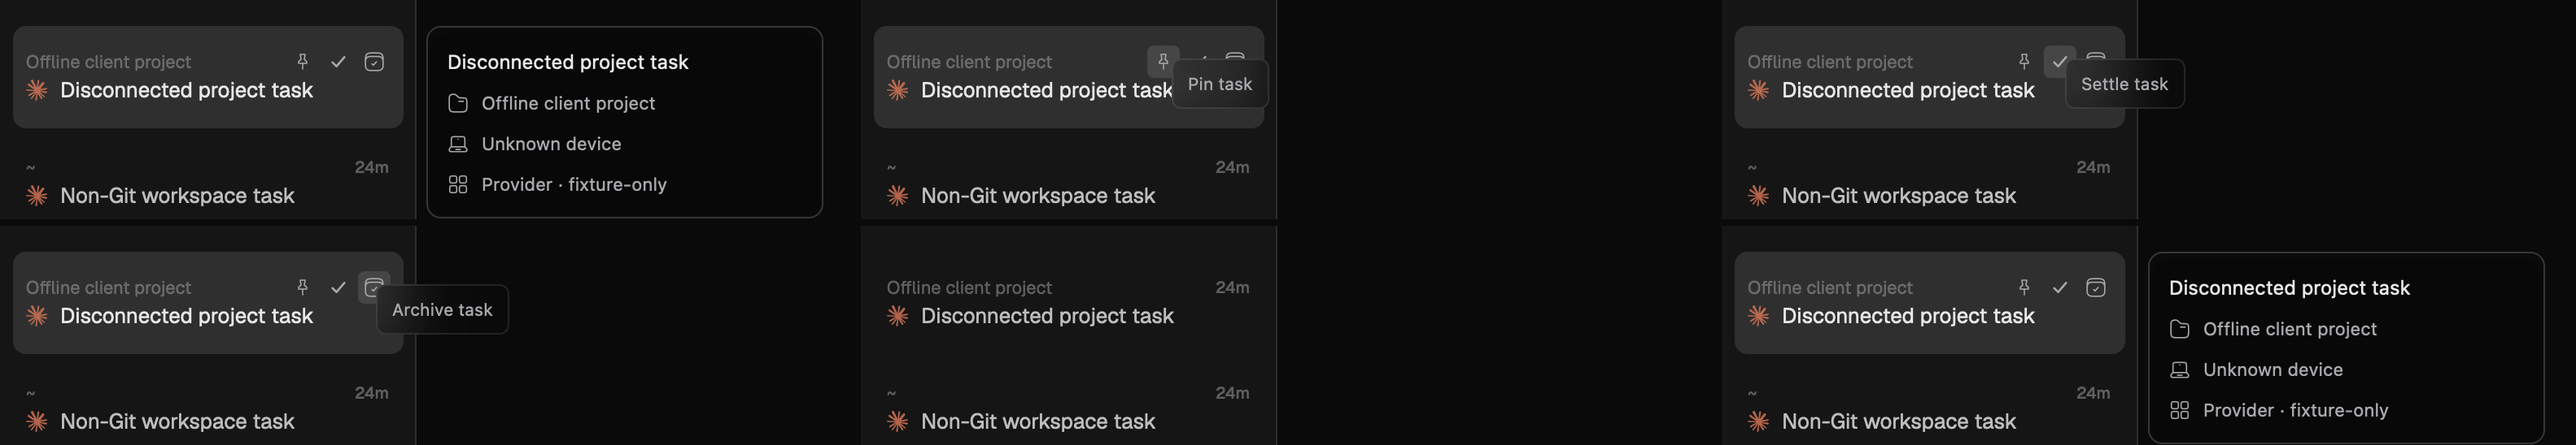
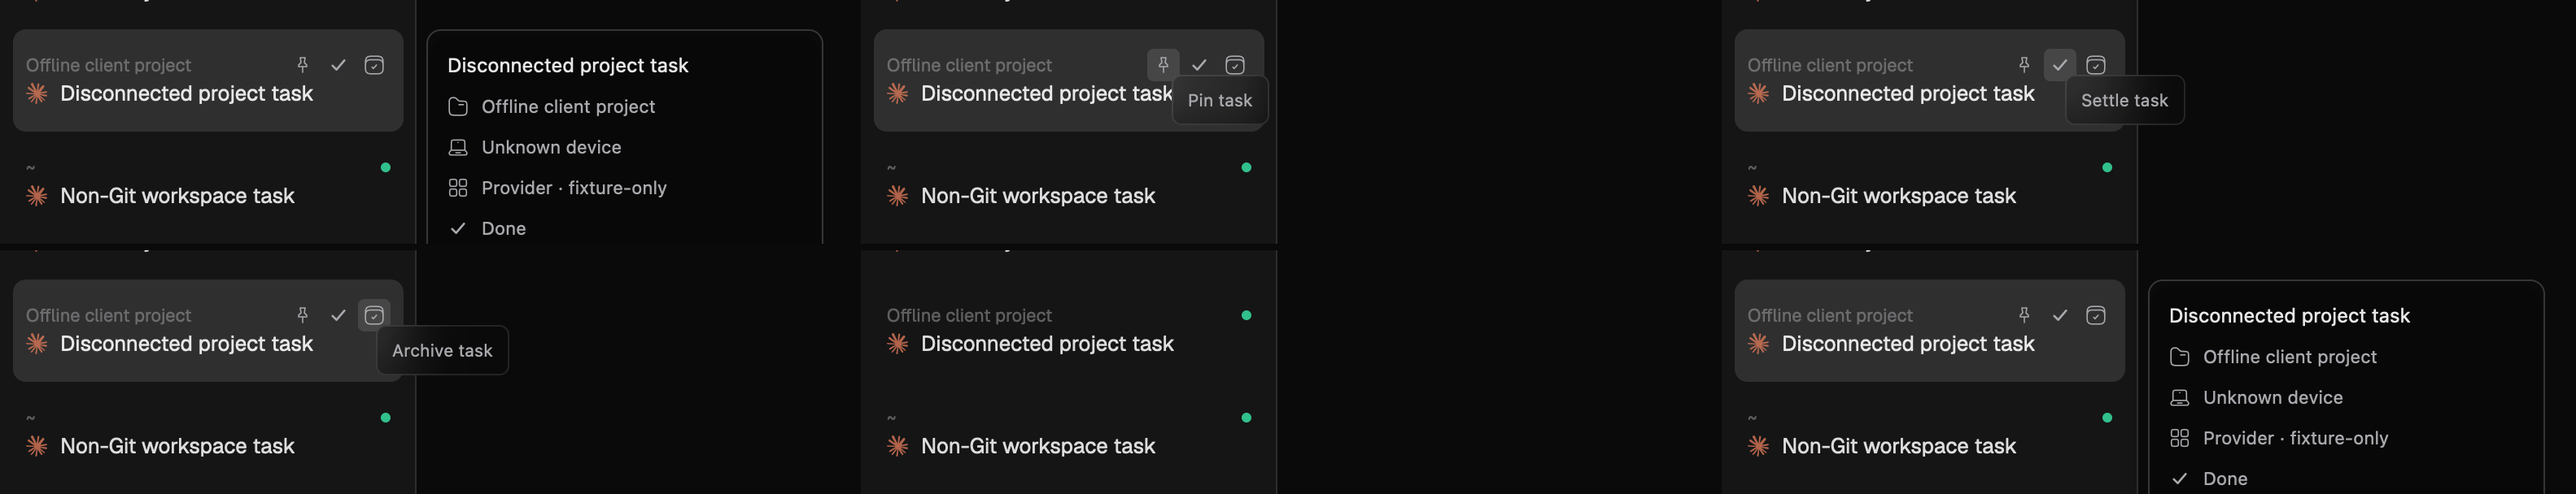
Keep hand cursor continuous across sidebar tasks

diff --git a/crates/ui/examples/task-organization-fixture.rs b/crates/ui/examples/task-organization-fixture.rs
@@ -593,6 +593,20 @@ async fn seed_sidebar_scale(core: &EngineCore, root: &Path) -> anyhow::Result<()
         return Ok(());
     }
     let now = chrono::Utc::now();
+    // These tasks were created within the same millisecond on fast machines,
+    // making their sidebar order depend on the tie-breaker. Keep capture
+    // coordinates stable across native QA runs.
+    for (id, seconds_ago) in [(TASK_REMOTE, 10), (TASK_NON_GIT, 20), (TASK_PERSONAL, 30)] {
+        let at = now - chrono::Duration::seconds(seconds_ago);
+        anyhow::ensure!(
+            core.workspace.set_chat_activity(
+                id,
+                Some(at.timestamp_millis()),
+                Some(at.timestamp_millis())
+            )?,
+            "sidebar fixture task activity update did not apply"
+        );
+    }
     let mut ids = Vec::new();
     for index in 0..=60u16 {
         let id = format!("d349{index:04x}-64d7-4aeb-b686-a751fb570467");
@@ -1323,6 +1337,12 @@ fn main() -> anyhow::Result<()> {
                         })?;
                         cx.background_executor().timer(Duration::from_millis(3200)).await;
                         capture_hover_frame(window, cx, &hover_capture_output, "hover-3850ms.png")?;
+                        let long_hover_cursor =
+                            window.update(cx, |_, window, _| window.debug_cursor_style())?;
+                        anyhow::ensure!(
+                            long_hover_cursor == gpui::CursorStyle::PointingHand,
+                            "cursor changed after stationary tooltip: {long_hover_cursor:?}"
+                        );
                         window.update(cx, |_, window, cx| {
                             window.dispatch_event(
                                 gpui::PlatformInput::MouseMove(gpui::MouseMoveEvent {
@@ -1397,6 +1417,80 @@ fn main() -> anyhow::Result<()> {
                             cx.background_executor().timer(Duration::from_millis(450)).await;
                             capture_hover_frame(window, cx, &hover_capture_output, name)?;
                         }
+                        let (pinned_failures, vertical_failures, horizontal_failures) =
+                            window.update(cx, |_, window, cx| {
+                                let mut pinned_failures = Vec::new();
+                                for y in 130..=245 {
+                                    window.dispatch_event(
+                                        gpui::PlatformInput::MouseMove(gpui::MouseMoveEvent {
+                                            position: gpui::point(px(100.0), px(y as f32)),
+                                            ..Default::default()
+                                        }),
+                                        cx,
+                                    );
+                                    window.draw(cx).clear();
+                                    let cursor = window.debug_cursor_style();
+                                    if cursor != gpui::CursorStyle::PointingHand {
+                                        pinned_failures.push(serde_json::json!({
+                                            "y": y,
+                                            "cursor": format!("{cursor:?}")
+                                        }));
+                                    }
+                                }
+                                let mut vertical_failures = Vec::new();
+                                for y in 280..=520 {
+                                    window.dispatch_event(
+                                        gpui::PlatformInput::MouseMove(gpui::MouseMoveEvent {
+                                            position: gpui::point(px(100.0), px(y as f32)),
+                                            ..Default::default()
+                                        }),
+                                        cx,
+                                    );
+                                    window.draw(cx).clear();
+                                    let cursor = window.debug_cursor_style();
+                                    if cursor != gpui::CursorStyle::PointingHand {
+                                        vertical_failures.push(serde_json::json!({
+                                            "y": y,
+                                            "cursor": format!("{cursor:?}")
+                                        }));
+                                    }
+                                }
+                                let mut horizontal_failures = Vec::new();
+                                for x in 20..=235 {
+                                    window.dispatch_event(
+                                        gpui::PlatformInput::MouseMove(gpui::MouseMoveEvent {
+                                            position: gpui::point(px(x as f32), px(360.0)),
+                                            ..Default::default()
+                                        }),
+                                        cx,
+                                    );
+                                    window.draw(cx).clear();
+                                    let cursor = window.debug_cursor_style();
+                                    if cursor != gpui::CursorStyle::PointingHand {
+                                        horizontal_failures.push(serde_json::json!({
+                                            "x": x,
+                                            "cursor": format!("{cursor:?}")
+                                        }));
+                                    }
+                                }
+                                (pinned_failures, vertical_failures, horizontal_failures)
+                            })?;
+                        std::fs::write(
+                            hover_capture_output.join("cursor-sweep.json"),
+                            serde_json::to_vec_pretty(&serde_json::json!({
+                                "longHoverCursor": format!("{long_hover_cursor:?}"),
+                                "expected": "PointingHand",
+                                "pinned": {"x": 100, "yStart": 130, "yEnd": 245, "failures": pinned_failures},
+                                "vertical": {"x": 100, "yStart": 280, "yEnd": 520, "failures": vertical_failures},
+                                "horizontal": {"y": 360, "xStart": 20, "xEnd": 235, "failures": horizontal_failures},
+                            }))?,
+                        )?;
+                        anyhow::ensure!(
+                            pinned_failures.is_empty()
+                                && vertical_failures.is_empty()
+                                && horizontal_failures.is_empty(),
+                            "sidebar cursor changed inside active thread list: pinned={pinned_failures:?} vertical={vertical_failures:?} horizontal={horizontal_failures:?}"
+                        );
                         std::fs::write(
                             hover_capture_output.join("readback.json"),
                             serde_json::to_vec_pretty(&serde_json::json!({
@@ -1404,6 +1498,7 @@ fn main() -> anyhow::Result<()> {
                                 "target": "Disconnected project task",
                                 "pointerLogical": {"x": 100, "y": SIDEBAR_HOVER_TARGET_Y},
                                 "forcedCachedFrames": 3,
+                                "cursorSweep": "cursor-sweep.json",
                                 "frames": ["before.png", "hover-650ms.png", "hover-3850ms.png", "body-right.png", "action.png", "settle.png", "archive.png", "left.png", "reenter.png", "git-project.png", "non-git-project.png", "projectless.png"],
                                 "status": "captured"
                             }))?,

diff --git a/crates/ui/src/shell.rs b/crates/ui/src/shell.rs
@@ -728,8 +728,9 @@ fn sidebar_key_order_changed(old: &[(String, f32)], new: &[(String, f32)]) -> bo
 pub(super) fn chat_row_height(_shows_branch: bool, _shows_pull_request: bool) -> f32 {
     63.0
 }
-/// Flex gap between sidebar list items.
-const SIDEBAR_LIST_GAP: f32 = 2.0;
+/// Keep adjacent task hitboxes contiguous so vertical pointer movement never
+/// crosses an arrow-cursor strip between clickable rows.
+const SIDEBAR_LIST_GAP: f32 = 0.0;
 /// Harness/title geometry follows the row hierarchy: active multi-line cards
 /// keep identity close on the standard 8px rhythm, while the one-line archived
 /// shelf gives its larger mark a little more separation.
@@ -7296,6 +7297,7 @@ impl Shell {
                             .items_center()
                             .justify_center()
                             .rounded(px(4.0))
+                            .cursor_pointer()
                             .hover(|s| s.bg(theme.glass_hover()))
                             .tooltip(|_, cx| {
                                 cx.new(|_| SurfaceTabTooltip {
@@ -7330,6 +7332,7 @@ impl Shell {
                         .items_center()
                         .justify_center()
                         .rounded(px(4.0))
+                        .cursor_pointer()
                         .hover(|s| s.bg(theme.glass_hover()))
                         .tooltip(move |_, cx| {
                             cx.new(|_| SurfaceTabTooltip {
@@ -8012,7 +8015,7 @@ impl Shell {
                         div()
                             .flex()
                             .flex_col()
-                            .gap(px(2.0))
+                            .gap(px(SIDEBAR_LIST_GAP))
                             .children(list_items)
                             .into_any_element()
                     } else {

diff --git a/vendor/zui/crates/gpui/src/window.rs b/vendor/zui/crates/gpui/src/window.rs
@@ -4995,6 +4995,14 @@ impl Window {
         }
     }
 
+    /// The cursor chosen by the painted hitboxes, for native UI fixtures.
+    #[cfg(feature = "test-support")]
+    pub fn debug_cursor_style(&self) -> CursorStyle {
+        self.rendered_frame
+            .cursor_style(self)
+            .unwrap_or(CursorStyle::Arrow)
+    }
+
     /// Dispatch a given keystroke as though the user had typed it.
     /// You can create a keystroke with Keystroke::parse("").
     pub fn dispatch_keystroke(&mut self, keystroke: Keystroke, cx: &mut App) -> bool {

diff --git a/docs/qa/sidebar-hover-2026-09-25.md b/docs/qa/sidebar-hover-2026-09-25.md
@@ -65,6 +65,12 @@ The captured target is the unselected **Disconnected project task**. The fixture
 
 ## Uniform active task height
 
-All active tasks reserve 63 logical pixels, including those without a branch or pull request. The same value feeds the rendered row and the sidebar reorder geometry. The fixture's three separate hovers show **Scale keyword recent thread 59** (Git project), **Non-Git workspace task**, and **Personal scratch task** (projectless) at the same size. At image x=30, their wash spans are respectively y=553–676, 813–936, and 943–1066: each is 124 physical pixels on a 2× display, with 130 physical pixels between adjacent row starts (63 logical pixels plus the 2-pixel list gap). The stable detail card and control strip remain inside each row.
+All active tasks reserve 63 logical pixels, including those without a branch or pull request. The same value feeds the rendered row and the sidebar reorder geometry. The fixture's three separate hovers show **Scale keyword recent thread 59** (Git project), **Non-Git workspace task**, and **Personal scratch task** (projectless) at the same size. At image x=30, their wash spans are respectively y=541–664, 793–916, and 919–1042: each is 124 physical pixels on a 2× display. Adjacent active row starts are 126 physical pixels apart, including the row between the Git and non-Git samples. The stable detail card and control strip remain inside each row.
 
 ![Git project, non-Git workspace, and projectless task, left to right](sidebar-hover-uniform-qa.png)
+
+## Cursor flicker follow-up
+
+The row already requested `PointingHand`, but two separate 2-pixel flex gaps in the active list left strips with no clickable hitbox. Moving vertically through tasks selected macOS's arrow cursor in those strips, then the hand again in the next row. The shared gap value and a hardcoded outer-list gap are now zero; Pin, Settle, and Archive explicitly request the hand cursor.
+
+The fixture reads GPUI's painted cursor choice after each native mouse move. An intermediate sweep with only the shared gap removed still returned `Arrow` at y=337–338, 402–403, and 467–468. After removing the outer gap, the final sweep returned `PointingHand` at all 116 pinned-row points (x=100, y=130–245), all 241 active-row points (x=100, y=280–520), and all 216 horizontal points (y=360, x=20–235), including text and the action strip. It was also `PointingHand` after the detail card had remained open for 3.85 seconds. The machine-readable [cursor sweep](sidebar-cursor-sweep-qa.json) comes from the same native fixture as the screenshots above.
